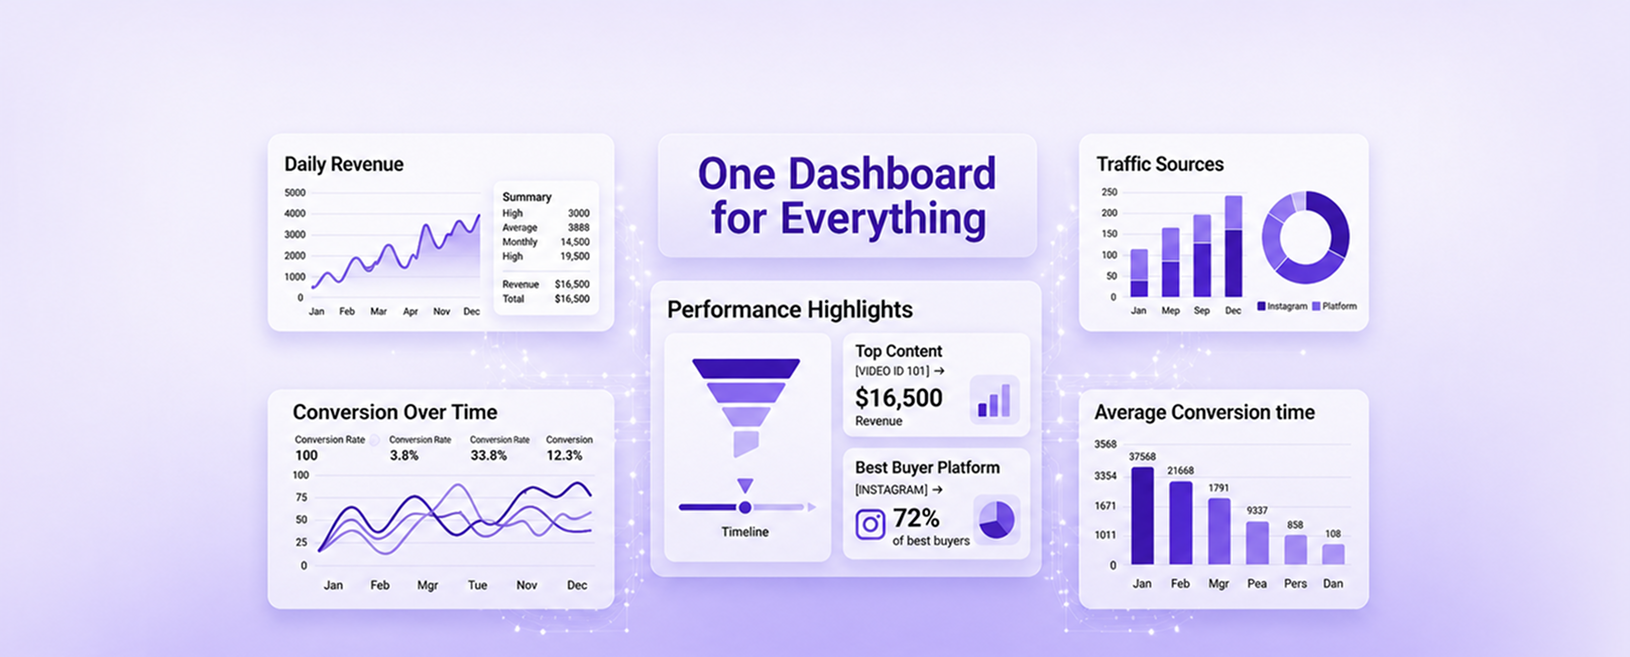
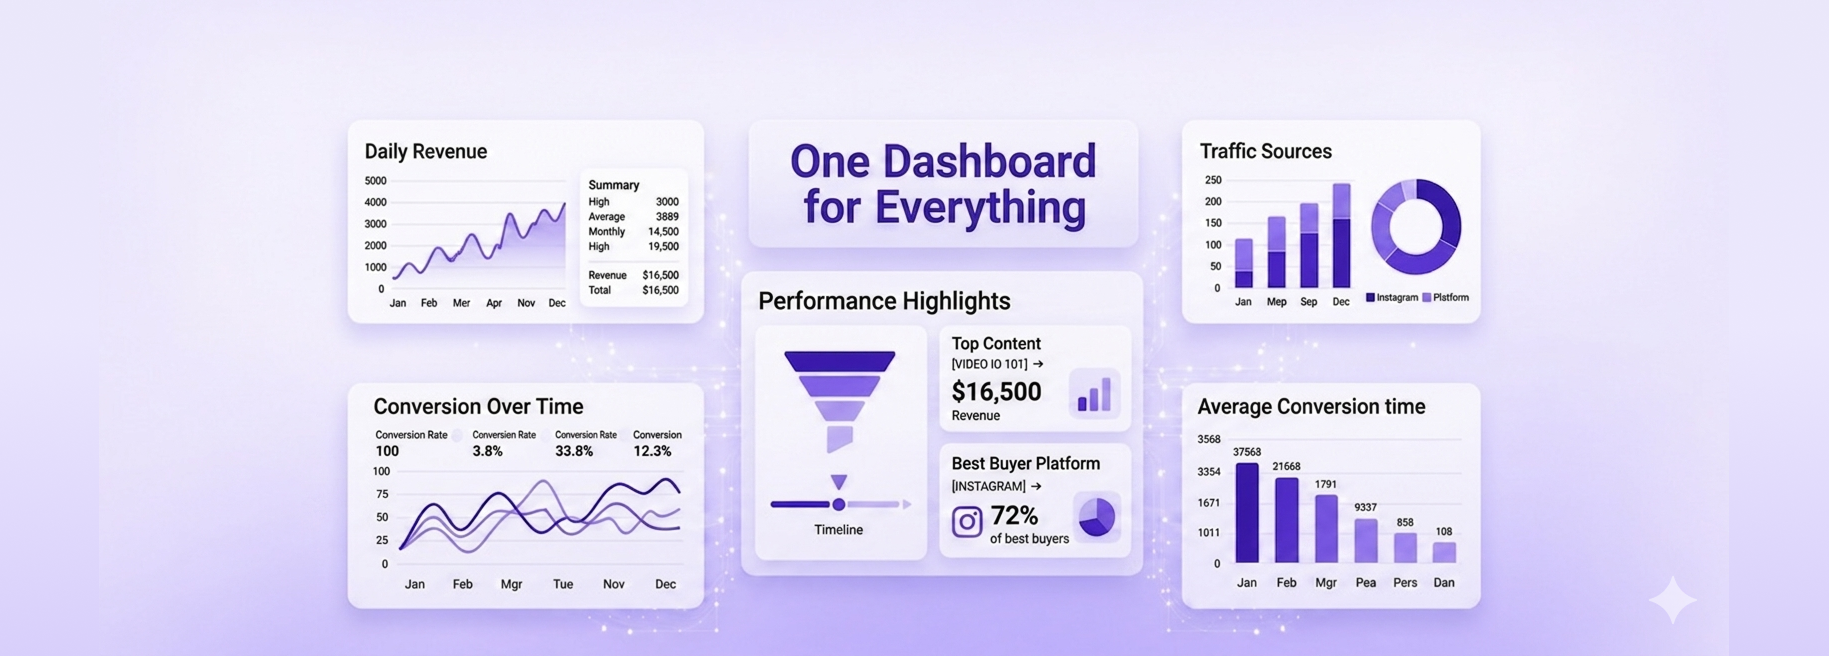
fix:footer Org text

Changed region(s): [[0.1534, 0.2134, 0.8589, 0.9451], [0.8896, 0.8841, 0.9202, 0.9451]]

diff --git a/src/components/Footer.css b/src/components/Footer.css
@@ -66,77 +66,66 @@
 .footer__wordmark-wrap {
   position: relative;
   width: 100%;
-  height: clamp(140px, 20vw, 300px);
+  height: clamp(160px, 22vw, 320px);
   overflow: hidden;
   display: flex;
-  align-items: flex-end;
+  align-items: center;
   justify-content: center;
+  background: transparent;
 }
 
 .footer__gradient-overlay {
   position: absolute;
   inset: 0;
-  background: linear-gradient(
-    to bottom,
-    #ffffff 0%,
-    rgba(255,255,255,0.5) 30%,
-    rgba(109,40,217,0.55) 70%,
-    rgba(91,33,182,0.85) 100%
+  /* Soft purple glow from center — echoes the ethereal shadow bg */
+  background: radial-gradient(
+    ellipse 70% 90% at 50% 50%,
+    rgba(139, 92, 246, 0.10) 0%,
+    transparent 70%
   );
   pointer-events: none;
+  z-index: 0;
 }
-.footer__gradient-overlay {
-  position: absolute;
-  inset: 0;
-  background: linear-gradient(
-    to bottom,
-    #ffffff 0%,
-    rgba(255,255,255,0.5) 30%,
-    rgba(109,40,217,0.55) 70%,
-    rgba(91,33,182,0.85) 100%
-  );
-  pointer-events: none;
-}
+
 .footer__wordmark-text {
   position: relative;
   z-index: 1;
-  font-family: var(--font-display, 'Space Grotesk', sans-serif);
-  font-size: clamp(64px, 16vw, 210px); /* Slightly optimized scale for edge cases */
-  font-weight: 800;
-  font-style: italic;
+  font-family: Inter, "Inter Placeholder", sans-serif;
+  font-size: min(14vw, 240px);
+  font-weight: 900;
+  font-style: normal;
   letter-spacing: -0.04em;
   line-height: 1;
-  padding-bottom: 0.02em;
   width: 100%;
   text-align: center;
-  
-  /* ── Fix text wrapping ── */
-  white-space: nowrap; /* CRITICAL: Forces text to stay perfectly on a single line on mobile phones */
-  
-  /* ── Beautiful White Mask Gradient ── */
+  white-space: nowrap;
+  user-select: none;
+
+  /* Purple text fading to transparent at the bottom */
   color: transparent;
   background-image: linear-gradient(
-    to bottom, 
-    rgba(255, 255, 255, 0.95) 0%, 
-    rgba(255, 255, 255, 0.45) 100%
+    to bottom,
+    rgba(109, 40, 217, 0.55) 0%,
+    rgba(109, 40, 217, 0.30) 45%,
+    rgba(109, 40, 217, 0.08) 75%,
+    rgba(109, 40, 217, 0.00) 100%
   );
   -webkit-background-clip: text;
   background-clip: text;
-  
-  /* Removed old dark lines to maintain a high-contrast premium feel */
-  -webkit-text-stroke: unset; 
-  user-select: none;
 }
 
 /* ── Bottom bar ── */
 .footer__bottom {
-  background: var(--purple-700);
+  background: rgba(237, 233, 254, 0.55);
+  backdrop-filter: blur(12px) saturate(160%);
+  -webkit-backdrop-filter: blur(12px) saturate(160%);
   display: flex;
   align-items: center;
   justify-content: space-between;
   padding: 16px 40px;
+  border-top: 1px solid rgba(139, 92, 246, 0.15);
 }
-.footer__copy { font-size: 13px; color: rgba(255,255,255,0.60); letter-spacing: -0.01em; }
+.footer__copy { font-size: 13px; color: var(--text-3); letter-spacing: -0.01em; font-family: Inter, sans-serif; }
 
 .footer__pill-cta {
   display: inline-flex;

diff --git a/src/components/Hero.css b/src/components/Hero.css
@@ -195,9 +195,17 @@
 
 /* ── Responsive ── */
 @media (max-width: 900px) {
+  .hero {
+    min-height: auto;
+    align-items: flex-start;
+    padding-top: 72px;
+    padding-bottom: 24px;
+  }
   .hero__layout {
     grid-template-columns: 1fr;
     min-height: auto;
+    margin-top: 0;
+    padding: 24px 20px 16px;
   }
   .hero__image-col {
     height: 45vw;
@@ -205,19 +213,13 @@
     max-height: 440px;
   }
   .hero__content {
-    padding: 48px 24px;
-  }
-  .hero__layout {
-    min-height: auto;
-  }
-  .hero__content {
-    padding: 80px 24px;
+    padding: 0;
   }
 }
 
 @media (max-width: 600px) {
+  .hero { min-height: auto; padding-top: 64px; padding-bottom: 20px; }
   .hero__image-col { height: 60vw; }
- 
   .hero__title { font-size: clamp(36px, 8vw, 56px); }
   .hero__blob { width: 100%; opacity: 0.5; }
 }

diff --git a/src/components/Features.css b/src/components/Features.css
@@ -224,8 +224,9 @@
 }
 
 @media (max-width: 600px) {
-  .features { 
-    padding-top: 60px; 
+  .features {
+    padding-top: 40px;
+    padding-bottom: 48px;
   }
   .features__row--3 { grid-template-columns: 1fr; }
   .features__arch-wrap { 

diff --git a/src/components/Steps.css b/src/components/Steps.css
@@ -162,7 +162,9 @@
 .steps__btn { font-size: 14px; padding: 11px 20px; border-radius: var(--radius-md); }
 
 @media (max-width: 600px) {
+  .steps { padding: 40px 16px 60px; }
+  .steps__header { margin-bottom: 40px; }
   .steps__track { left: 28px; }
-  .steps__item { grid-template-columns: 60px 1fr; gap: 0 16px; min-height: 180px; padding-bottom: 48px; }
+  .steps__item { grid-template-columns: 60px 1fr; gap: 0 16px; min-height: 180px; padding-bottom: 36px; }
   .steps__num { font-size: 36px; }
 }

diff --git a/src/components/VSL.css b/src/components/VSL.css
@@ -178,7 +178,7 @@
 }
 
 @media (max-width: 600px) {
-  .vsl { padding: 60px 16px; }
+  .vsl { padding: 36px 16px; }
   .vsl__container { gap: 32px; }
   .vsl__play-btn { width: 68px; height: 68px; }
   .vsl__play-icon { font-size: 22px; }